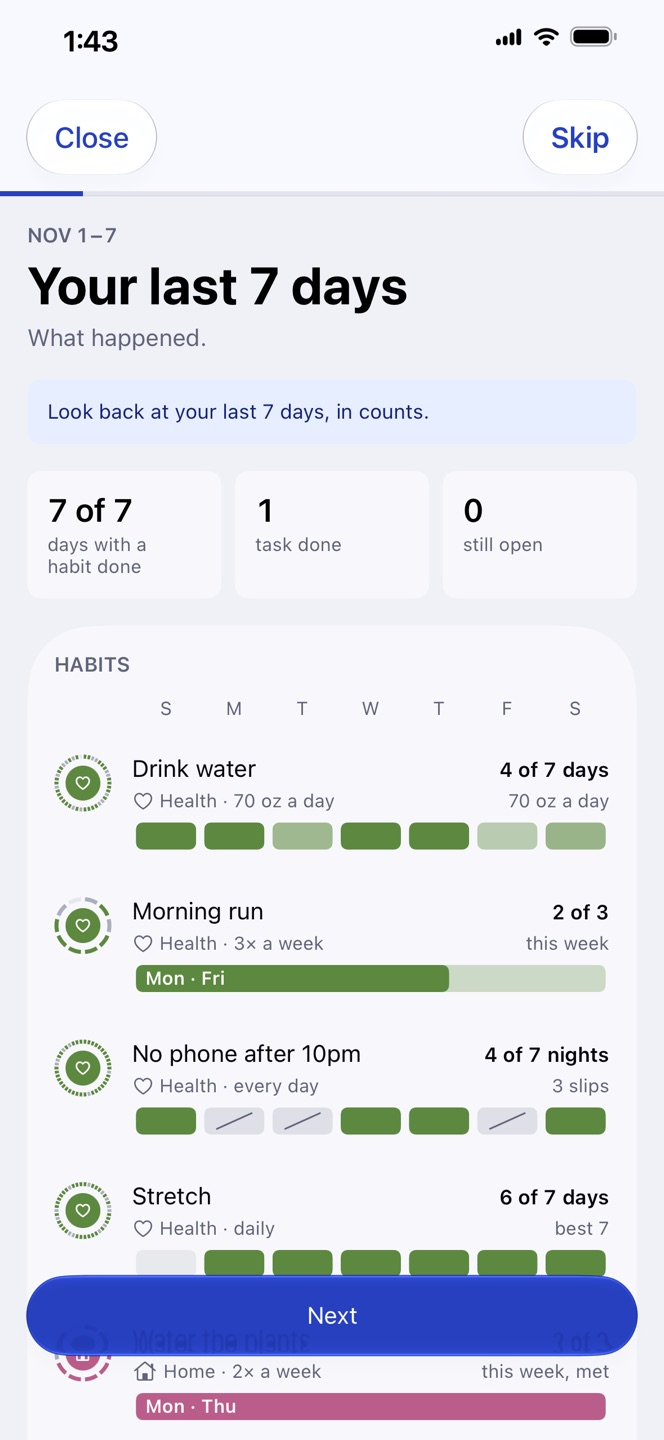
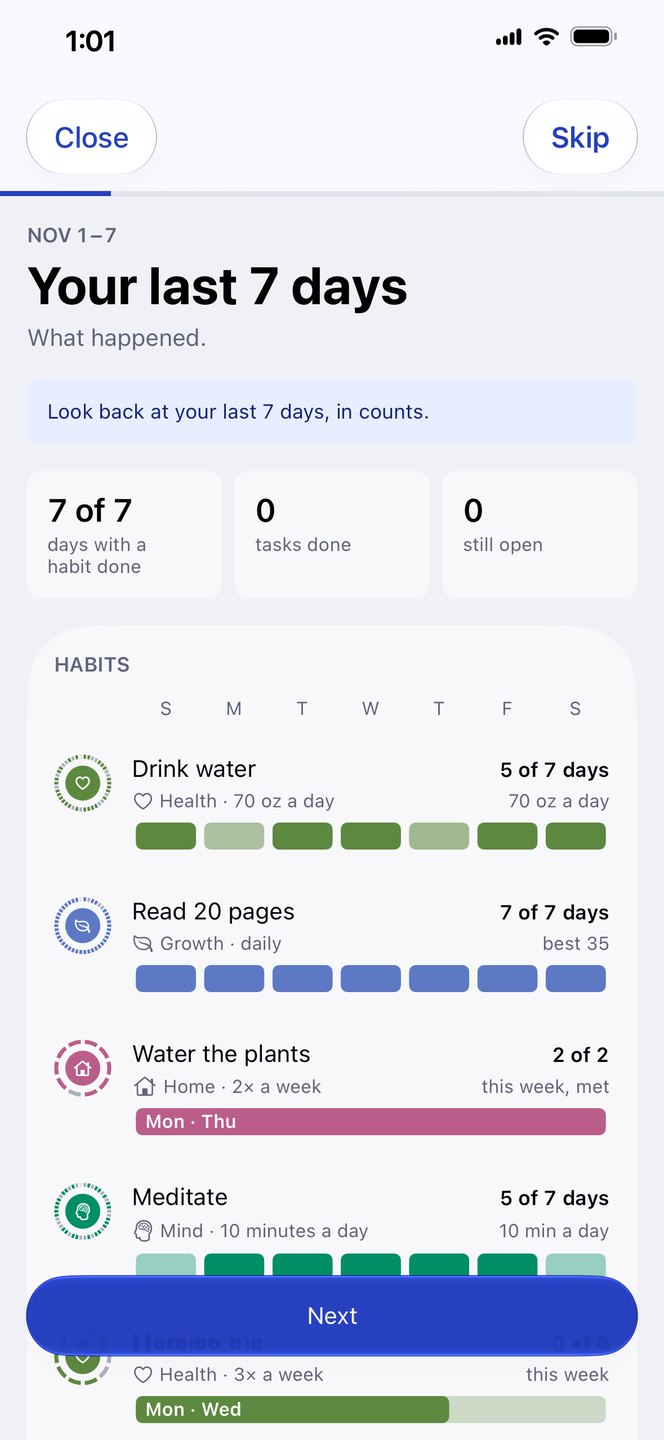
Preview: day-page @ a9ae616 (planning and Today screenshots with mixed Area colours)

diff --git a/docs/index.html b/docs/index.html
@@ -1,5 +1,5 @@
 <!doctype html>
-<html lang="en" data-built="day-page @ e762aae, Nov 12">
+<html lang="en" data-built="day-page @ a9ae616, Nov 12">
 <head>
 <meta name="robots" content="noindex, nofollow">
 <meta charset="utf-8">
